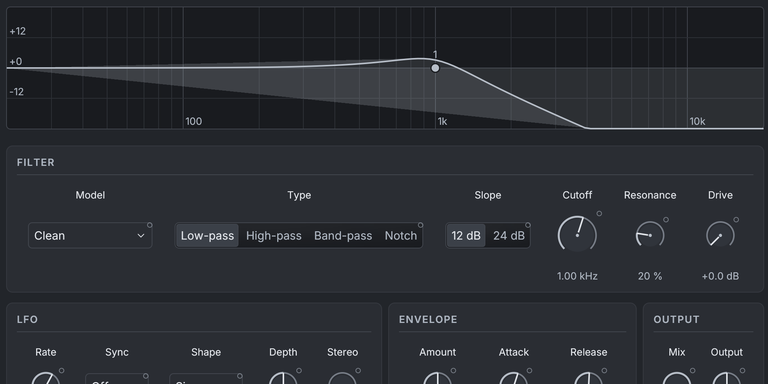
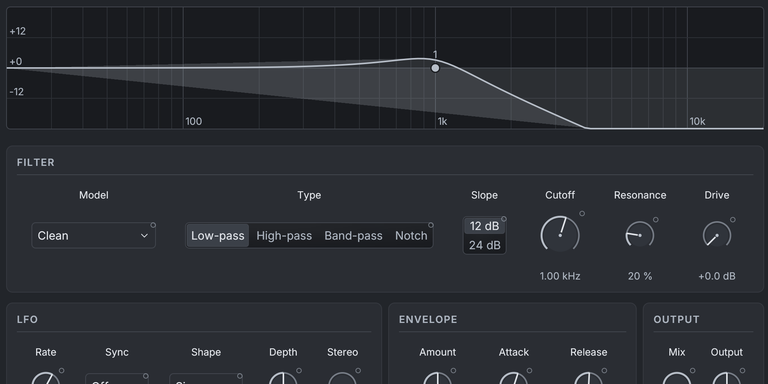
Add vertical toggle buttons; stack the oscillator Model and filter Slope
Claude-Session: https://claude.ai/code/session_01NMJbGpgEhY1BFioJy8Pb6P

diff --git a/crates/daw-ui/src/widgets.rs b/crates/daw-ui/src/widgets.rs
@@ -967,6 +967,28 @@ pub fn toggle_group<T: Copy + PartialEq>(
     current: &mut T,
     options: &[(T, &str)],
 ) -> Response {
+    toggle_track(ui, current, options, false)
+}
+
+/// Height of one option of a [`toggle_group_vertical`].
+pub const TOGGLE_ROW_HEIGHT: f32 = tokens::COMPACT_HEIGHT + 4.0;
+
+/// A [`toggle_group`] with its options stacked, for two or three short
+/// options where width is scarcer than height, as beside a row of knobs.
+pub fn toggle_group_vertical<T: Copy + PartialEq>(
+    ui: &mut Ui,
+    current: &mut T,
+    options: &[(T, &str)],
+) -> Response {
+    toggle_track(ui, current, options, true)
+}
+
+fn toggle_track<T: Copy + PartialEq>(
+    ui: &mut Ui,
+    current: &mut T,
+    options: &[(T, &str)],
+    vertical: bool,
+) -> Response {
     let colors = theme::palette(ui.ctx());
     let font = egui::TextStyle::Button.resolve(ui.style());
     let padding = ui.spacing().button_padding.x;
@@ -980,14 +1002,16 @@ pub fn toggle_group<T: Copy + PartialEq>(
             )
         })
         .collect();
-    let width: f32 = galleys
-        .iter()
-        .map(|galley| galley.size().x + 2.0 * padding)
-        .sum();
-    let (rect, mut response) = ui.allocate_exact_size(
-        egui::vec2(width, tokens::CONTROL_HEIGHT),
-        egui::Sense::hover(),
-    );
+    let widths = galleys.iter().map(|galley| galley.size().x + 2.0 * padding);
+    let size = if vertical {
+        egui::vec2(
+            widths.fold(0.0, f32::max),
+            TOGGLE_ROW_HEIGHT * options.len() as f32,
+        )
+    } else {
+        egui::vec2(widths.sum(), tokens::CONTROL_HEIGHT)
+    };
+    let (rect, mut response) = ui.allocate_exact_size(size, egui::Sense::hover());
     if ui.is_rect_visible(rect) {
         ui.painter().add(crate::component_shape(
             ui.painter(),
@@ -999,13 +1023,21 @@ pub fn toggle_group<T: Copy + PartialEq>(
         ));
     }
     let mut changed = false;
-    let mut left = rect.left();
+    let mut next = rect.min;
     for (index, ((value, label), galley)) in options.iter().zip(galleys).enumerate() {
         let segment = egui::Rect::from_min_size(
-            egui::pos2(left, rect.top()),
-            egui::vec2(galley.size().x + 2.0 * padding, rect.height()),
+            next,
+            if vertical {
+                egui::vec2(rect.width(), TOGGLE_ROW_HEIGHT)
+            } else {
+                egui::vec2(galley.size().x + 2.0 * padding, rect.height())
+            },
         );
-        left = segment.right();
+        next = if vertical {
+            segment.left_bottom()
+        } else {
+            segment.right_top()
+        };
         let button = ui.interact(segment, response.id.with(index), egui::Sense::click());
         if button.clicked() && current != value {
             *current = *value;

diff --git a/crates/daw-devices-ui/src/lib.rs b/crates/daw-devices-ui/src/lib.rs
@@ -181,6 +181,10 @@ fn active(spec: &ParamSpec, host: &dyn DeviceHost, layout: &panels::Layout) -> b
     (layout.visible)(spec.id, &|id| host.value(id))
 }
 
+fn stacked(spec: &ParamSpec, layout: &panels::Layout) -> bool {
+    toggles(spec) && layout.stacked.contains(&spec.id)
+}
+
 /// Whether a parameter's options are few enough to show as toggle buttons.
 fn toggles(spec: &ParamSpec) -> bool {
     matches!(spec.range, ParamRange::Choice(labels) if labels.len() < daw_ui::TOGGLE_OPTION_LIMIT)
@@ -271,6 +275,8 @@ fn is_knob(spec: &ParamSpec) -> bool {
 fn control_height(spec: &ParamSpec, layout: &panels::Layout) -> f32 {
     if is_knob(spec) {
         knob_diameter(spec, layout)
+    } else if let (true, ParamRange::Choice(labels)) = (stacked(spec, layout), spec.range) {
+        daw_ui::TOGGLE_ROW_HEIGHT * labels.len() as f32
     } else {
         daw_ui::tokens::CONTROL_HEIGHT
     }
@@ -303,10 +309,16 @@ fn cell_width(ui: &Ui, spec: &ParamSpec, layout: &panels::Layout) -> f32 {
             .into_iter()
             .map(|end| text(&spec.format(end), daw_ui::text::TextRole::Note.font()))
             .fold(knob_diameter(spec, layout), f32::max),
-        ParamRange::Choice(labels) if toggles(spec) => labels
-            .iter()
-            .map(|label| text(label, button.clone()) + 2.0 * daw_ui::tokens::SPACE_SM)
-            .sum(),
+        ParamRange::Choice(labels) if toggles(spec) => {
+            let widths = labels
+                .iter()
+                .map(|label| text(label, button.clone()) + 2.0 * daw_ui::tokens::SPACE_SM);
+            if stacked(spec, layout) {
+                widths.fold(0.0, f32::max)
+            } else {
+                widths.sum()
+            }
+        }
         ParamRange::Choice(labels) => choice(widest(&mut labels.iter().map(|l| l.to_string()))),
         ParamRange::Integer { .. } => choice(widest(
             &mut (spec.plain_min() as i32..=spec.plain_max() as i32)
@@ -503,7 +515,11 @@ fn control(
                             .iter()
                             .map(|(plain, option)| (*plain, option.as_str()))
                             .collect();
-                        let response = daw_ui::toggle_group(ui, &mut current, &options);
+                        let response = if stacked(spec, layout) {
+                            daw_ui::toggle_group_vertical(ui, &mut current, &options)
+                        } else {
+                            daw_ui::toggle_group(ui, &mut current, &options)
+                        };
                         if response.changed() {
                             host.set_value(spec.id, f64::from(spec.to_normalized(current)));
                         }

diff --git a/crates/daw-devices-ui/src/panels.rs b/crates/daw-devices-ui/src/panels.rs
@@ -29,6 +29,9 @@ pub struct Layout {
     pub knob: daw_ui::KnobSize,
     /// Captions that differ from the parameter's name.
     pub captions: &'static [(u32, &'static str)],
+    /// Short choices whose toggle buttons stack, where a card is short of
+    /// width.
+    pub stacked: &'static [u32],
     /// Whether a control does anything in the current mode.
     pub visible: fn(u32, Values<'_>) -> bool,
     /// What happens to a control that does nothing: hidden, or, on a dense
@@ -80,6 +83,7 @@ pub fn layout(descriptor: &DeviceDescriptor) -> Layout {
             section("Output", 1, 2, &[&[MIX, OUTPUT]]),
         ];
         layout.hero = Some(CUTOFF);
+        layout.stacked = &[SLOPE];
         layout.visible = |id, values| applies(id, &filter_settings(values));
         layout.options =
             |id, values| (id == TYPE).then(|| type_options(filter_settings(values).model));
@@ -174,6 +178,7 @@ pub fn layout(descriptor: &DeviceDescriptor) -> Layout {
                 ]],
             ),
         ];
+        layout.stacked = &[OSC1_MODEL, OSC2_MODEL];
         layout.captions = &[(VELOCITY_CUTOFF, "Velocity"), (VELOCITY_AMP, "Velocity")];
         layout.hero = Some(CUTOFF);
         layout.knob = daw_ui::KnobSize::Dense;
@@ -215,6 +220,7 @@ fn generic(descriptor: &DeviceDescriptor) -> Layout {
         hero: None,
         knob: daw_ui::KnobSize::Standard,
         captions: &[],
+        stacked: &[],
         visible: |_, _| true,
         keep_inactive: false,
         options: |_, _| None,

diff --git a/docs/UI.md b/docs/UI.md
@@ -306,7 +306,7 @@ Standard controls are available at the crate root and through `daw_ui::widgets`.
 | Aligned settings and paths | `form_grid`, `form_label`, `path_row`, `section_gap` |
 | Ghost clip identity | `clip_occurrence_hover`, `clip_title`, `ClipTitleLayout`, `clip_label`, `clip_choice`, `Icon::Link`, `Icon::Unlink` |
 | Arrangement clip surfaces and previews | `clip_surface`, `clip_surface_named`, `ClipSurfaceLayout`, `clip_note_preview` |
-| One choice among fixed options | `choice` (toggle buttons for fewer than five options, otherwise a drop-down), `toggle_group` |
+| One choice among fixed options | `choice` (toggle buttons for fewer than five options, otherwise a drop-down), `toggle_group`, `toggle_group_vertical` |
 | Dropdown choices | `select`, `select_labeled` |
 | Numeric widget builders | `slider`, `Slider`, `SliderScaleGeometry`, `slider_scale_geometry`, `number`, `Number` |
 | Numeric mouse steps and exact entry | `number_stepper`, `number_stepper_integer`, `mouse_value_entry`, `NumberStepperResponse` |
@@ -630,7 +630,7 @@ families sharing a row; wrapped rows start cleanly. Every supported tool stays
 visible, and families wrap as whole units where space permits. Toolbars have a quiet panel fill and bottom
 divider; active tools retain their glowing border and keyboard semantics.
 
-**Choices.** A choice among fewer than five fixed options is a row of toggle buttons, never a drop-down: every option stays visible and one click picks it. Call `choice(ui, id, &mut value, &[(value, "Label"), …])`, which applies the rule: toggle buttons (`toggle_group`) below five options, a `select` drop-down from five on or when the labels are too wide to sit side by side. Use `select` directly only for lists that are long, dynamic (devices, ports, folders) or have long names.
+**Choices.** A choice among fewer than five fixed options is a row of toggle buttons, never a drop-down: every option stays visible and one click picks it. Call `choice(ui, id, &mut value, &[(value, "Label"), …])`, which applies the rule: toggle buttons (`toggle_group`) below five options, a `select` drop-down from five on or when the labels are too wide to sit side by side. `toggle_group_vertical` stacks two or three short options where width is scarcer than height, as beside a row of knobs. Use `select` directly only for lists that are long, dynamic (devices, ports, folders) or have long names.
 
 **Containers.** Group related controls in a labelled container: the title on top in small, dimmed capitals, separated from the contents by a rule or space, and the contents padded by at least `SPACE_MD`. Separate groups with space (`section_gap`, the `grid_row` gutter) rather than extra lines. Containers that share a view sit on `grid_row`'s twelve columns, so their edges line up from row to row.
 

diff --git a/docs/R1_DEVICES.md b/docs/R1_DEVICES.md
@@ -438,7 +438,8 @@ and a new device has little to decide:
    choices and switches and one baseline for their values, so neighbouring
    cards line up.
 5. **Controls by range.** Continuous value: `labeled_knob`. Fewer than five
-   named options: toggle buttons (`segmented`, `toggle_group`), so every
+   named options: toggle buttons (`segmented`, `toggle_group`, or stacked
+   with `toggle_group_vertical` where a card is short of width), so every
    option is visible. Longer lists: a drop-down or `stepped_selector`. On/off:
    `toggle_led`. One hero knob at most per panel (64 points); standard knobs
    are 48, dense rows 34.
